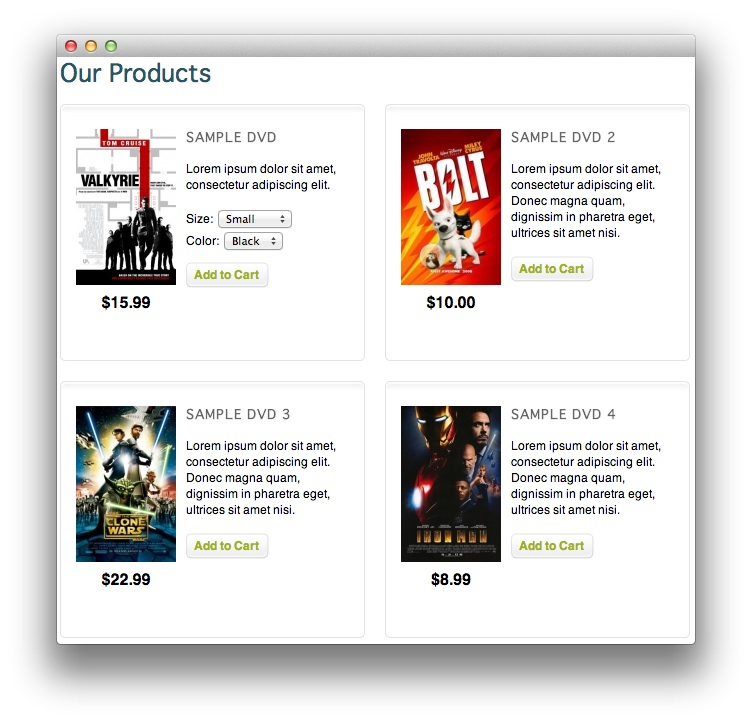
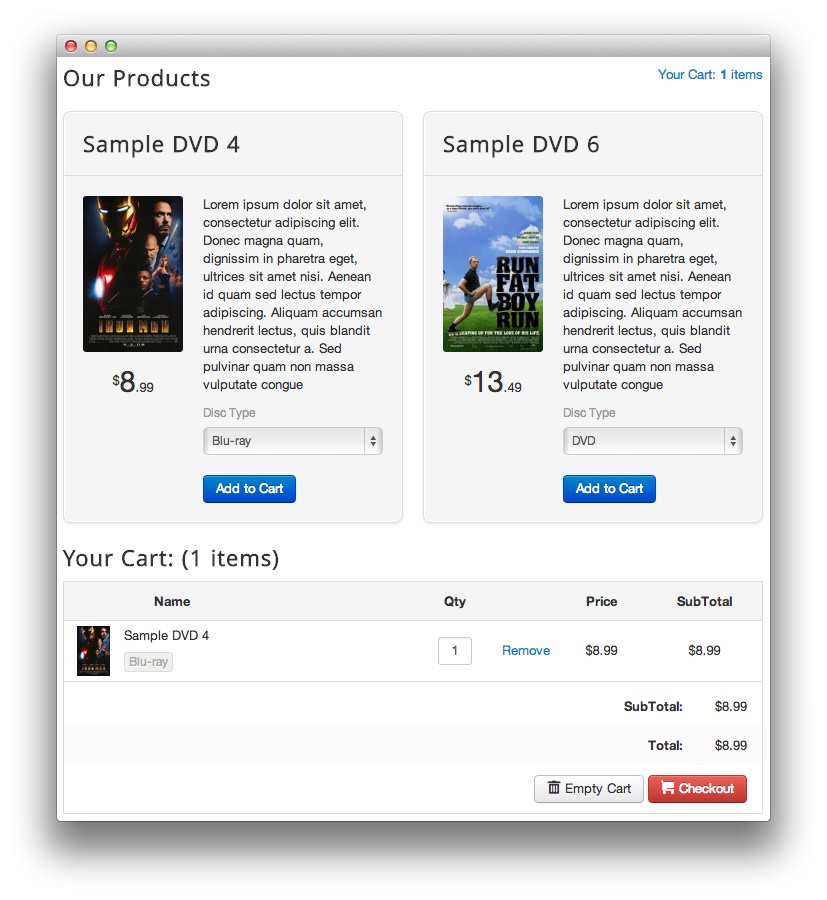
RokQuickCart Update (Joomla)

Changed region(s): [[0.0612, 0.0304, 0.9481, 0.9737], [0.5199, 0.1521, 0.887, 0.8216], [0.4282, 0.4564, 0.4588, 0.5173]]

diff --git a/Docs/joomla/extensions/rokquickcart/setup.md b/Docs/joomla/extensions/rokquickcart/setup.md
@@ -8,7 +8,7 @@ breadcrumb: /joomla:Joomla/!extensions:Extensions/rokquickcart:RokQuickCart
 Introduction
 -----
 
-RokQuickCart is a very simple Joomla extension that is designed to make it easy to add a cart to your site. As with any e-commerce tool, there are some important considerations to make prior to taking this component live. We have added the ability to set RokQuickCart up in a sandbox mode so you can test it prior to having transactions appear on your Google or PayPal account. We have also explained some of the important taxing and shipping considerations below.
+RokQuickCart is a very simple Joomla extension, which works with [SimpleCart][simplecart], that is designed to make it easy to add a cart to your site. As with any e-commerce tool, there are some important considerations to make prior to taking this component live. We have added the ability to set RokQuickCart up in a sandbox mode so you can test it prior to having transactions appear on your Google or PayPal account. We have also explained some of the important taxing and shipping considerations below.
 
 There are two primary areas of interest when setting up the RokQuickCart component. The first area is the **RokQuickCart Configuration** page which is accessible by navigating to **Admin -> System -> Global Configuration -> RokQuickCart**. You can also visit it by selecting **Options** within the **RokQuickCart Items Manager** which is directly accessible by navigating to **Admin -> Components -> RokQuickCart**. These two pages give you the ability to configure your store on the backend.
 
@@ -19,7 +19,7 @@ RokQuickCart also provides a great deal of configuration options on the backend 
 Checkout Methods
 -----
 
-RokQuickCart supports both PayPal and Google Checkout as checkout methods.
+RokQuickCart supports PayPal, Google Checkout, Amazon, and custom SendForms as checkout methods.
 
 ### PayPal
 If you wish to use PayPal as a checkout provider you must set up a business PayPal account (at http://www.paypal.com) and provide that business PayPal email to RokQuickCart.
@@ -34,6 +34,7 @@ Shipping amounts with PayPal are totaled by the cart and passed to PayPal as a l
 
 Per Item Shipping: Shipping cost is based on the shipping cost per item. If you use a different method, make sure each cart items shipping amount is set to 0.
 Flat Rate: One set shipping price for the whole order.
+
 Quantity Rate: Shipping cost per item no matter what item it is.
 Percentage of Total: Shipping cost is calculated as a percent of total sales.
 The Shipping will be added as a line item
@@ -48,6 +49,14 @@ At this point, RokQuickCart uses the Google Checkout HTML API. So be sure to tur
 
 Taxes and Shipping for Google Checkout are handled in the Google Checkout Setup. It is based on your location and the location of the purchaser. You can customize your tax rates and shipping based on multiple rules that you define. Therefore only the tax rate is passed to Google Checkout from RokQuickCart. Google Checkout will only add the taxes and shipping in if you define it to do so in the setup.
 
+>> NOTE: Google Checkout has been retired by Google and may no longer be available.
+
+### Amazon Payments Checkout
+
+Amazon Payments is one of the dealing platforms by which e-commerce sites are accepting payments. Money received through Amazon Payments Checkout is held by Amazon until confirmation of shipment occurs. This method allows the customers that already have an account with Amazon to use it to make their purchase without having to give their information to another third-party.
+
+You can set up an account with [Amazon Payments][amazonpayments] through its official website.
+
 Checkout Modes
 -----
 
@@ -57,13 +66,9 @@ RokQuickCart provides both Production and Sandbox modes to allow you to easily t
 
 Sandbox mode allows you to test the cart against the PayPal and Google Checkout Sandboxes. Using the sandbox, you can test the carts against the checkout provider and make sure they are working for your needs. When in sandbox mode no real orders will be taken, and no real charges will be applied.
 
-#### PayPal Sandbox
+You can create accounts for [the PayPal sandbox][paypalsandbox]. Please see the [PayPal developers information][info] on how to setup and use the paypal sandbox. You can also see the page on working with [Google Checkout on a Development Site][googledev] in order to get more information on using the Google Checkout Sandbox.
 
-You can create accounts for [the PayPal sandbox][paypalsandbox]. Please see the [PayPal developers information][info] on how to setup and use the paypal sandbox.
-
-#### Google Checkout Sandbox
-
-You can [create a Google Checkout Sandbox account][googlesandbox] by signing up. Please see the page on working with [Google Checkout on a Development Site][googledev] in order to get more information on using the Google Checkout Sandbox.
+Amazon also has a [useful guide][amazonsandbox] outlining its sandbox protocol.
 
 ### Production Mode
 
@@ -106,11 +111,11 @@ The **Items Manager** is the primary hub for creating and modifying products tha
 
 ![][setup3]
 
-:	1. **Name** This is the name of your product that will be displayed on the products page. [14%, 31%, se]
-	2. **Price** This price (in the currency you have selected on the main configuration page) is for the product itself and does not include shipping. [19%, 31%, se]
-	3. **Shipping Cost** This is where you can add the shipping costs for the product that sit apart from the main product price. [25%, 31%, se]
-	4. **Select an Image** You can upload a full-size image of your product here. RokQuickCart will automatically create smaller image sizes for your site. [30%, 31%, se]
-	5. **Description** This is the description you wish to have appear with the product on your site. [55%, 31%, se]
+:	1. **Name** This is the name of your product that will be displayed on the products page. [19%, 28%, se]
+	2. **Price** This price (in the currency you have selected on the main configuration page) is for the product itself and does not include shipping. [24%, 28%, se]
+	3. **Shipping Cost** This is where you can add the shipping costs for the product that sit apart from the main product price. [30%, 28%, se]
+	4. **Select an Image** You can upload a full-size image of your product here. RokQuickCart will automatically create smaller image sizes for your site. [35%, 28%, se]
+	5. **Description** This is the description you wish to have appear with the product on your site. [60%, 28%, se]
 
 1. **Name**: This is the name of your product that will be displayed on the products page.
 
@@ -120,7 +125,7 @@ The **Items Manager** is the primary hub for creating and modifying products tha
 
 4. **Select an Image**: You can upload a full-size image of your product here. RokQuickCart will automatically create smaller image sizes for your site
 
-5. **Description**: This is the description you wish to have appear with the product on your site.
+5. **Description**: This is the description you wish to have appear with the product on your site. The editor is based on RocketTheme's powerful RokPad extension, allowing you much more control over how content appears on your site.
 
 ![][setup4]
 
@@ -133,99 +138,113 @@ The **Items Manager** is the primary hub for creating and modifying products tha
 
 ![][setup5]
 
-:	1. **Show Sizes** This toggle will enable you to add different sizes to the product. This allows you to list different clothing sizes without creating a new product for every size. [31%, 46%, se]
-	2. **Sizes** Click this button to add sizes to the product listing. [44%, 46%, se]
-	3. **Show Colors** This toggle will enable you to add different colors to the product listing. When selling products that come in a variety of colors (such as shirts) it will save you from having to build individual products. [57%, 46%, se]
-	4. **Colors** Click this button to add colors to the product listing. [70%, 46%, se]
+:	1. **Add New** This button makes it easy to add variables to your products. If you have a product with varying details, you can add them here to avoid having to create a new item for each option. [28%, 69%, se]
+	2. **Add and Remove** You can use the + and - buttons to add and remove options for users. These options appear as a drop-down on the frontend giving customers the ability to select these options prior to purchase. [57%, 40%, se]
 
-1. **Show Sizes**: This toggle will enable you to add different sizes to the product. This allows you to list different clothing sizes without creating a new product for every size.
+1. **Add New**: This button makes it easy to add variables to your products. If you have a product with varying details, you can add them here to avoid having to create a new item for each option.
 
-2. **Sizes**: Click this button to add sizes to the product listing.
+2. **Add and Remove**: You can use the + and - buttons to add and remove options for users. These options appear as a drop-down on the frontend giving customers the ability to select these options prior to purchase.
 
-3. **Show Colors**: This toggle will enable you to add different colors to the product listing. When selling products that come in a variety of colors (such as shirts) it will save you from having to build individual products.
-
-4. **Colors**: Click this button to add colors to the product listing.
-
-Configuration
+Setup and Configuration
 -----
 
 The main **RokQuickCart Configuration** page can be accessed by navigating to **Admin -> System -> Global Configuration -> RokQuickCart** or simply selecting **Options** in the **RokQuickCart Items Manager**. It serves as the primary configuration page to determine how RokQuickCart appears and functions.
 
-![][setup6]
+![][config1]
 
-:	1. **Cart Page Title** This is the title for the primary cart page that appears on the frontend of your site. [20%, 46%, se]
-	2. **Page Columns** This option sets the number of product columns that will appear on the page. [27%, 46%, se]
-	3. **Shelf Item Width** The width of the shelf in pixels. This number should fit your content layout. [34%, 46%, se]
-	4. **Shelf Image Width** The width (in pixels) of the product image that appears on the shelf. [40%, 46%, se]
-	5. **Cart Item Height** The height (in pixels) of items that appear in the Cart. [46%, 46%, se]
-	6. **Cart Image Width** The width (in pixels) of the product image that appears in the Cart. [52%, 46%, se]
-	7. **Use RokBox for Full Image** Toggles the ability of the visitor to pull up a full-size copy of the product image for closer inspection. [60%, 46%, se]
-	8. **Include Default CSS** Shows the default cart CSS. Set to **No** if you want to override the default template CSS with your own. [70%, 46%, se]
-	9. **Use Tax Rate** Toggles whether or not you wish to use the tax rate when determining the final cost of the cart. [83%, 46%, se]
+:	1. **Cart Page Title** This is the title for the primary cart page that appears on the frontend of your site. [35%, 46%, se]
+	2. **Shelves Per Row** This is the amount of shelves you wish to have appear side-by-side in each row on the frontend. [43%, 46%, se]
+	3. **Max Image Width** This is the number of pixels in width images will max out at in your cart display. [51%, 46%, se]
+	4. **Use RokBox for Full Image** Toggles the ability of the visitor to pull up a full-size copy of the product image for closer inspection. [60%, 46%, se]
+	5. **Include Default CSS** Shows the default cart CSS. Set to **No** if you want to override the default template CSS with your own. [70%, 46%, se]
+	6. **Same Height Shelves** Enables you to set whether or not you want the height product shelves to appear at the same height (based on the tallest one). [79%, 46%, se]
+
 
 1. **Cart Page Title**: This is the title for the primary cart page that appears on the frontend of your site.
 
-2. **Page Columns**: This option sets the number of product columns that will appear on the page.
+2. **Shelves Per Row**: This is the amount of shelves you wish to have appear side-by-side in each row on the frontend.
 
-3. **Shelf Item Width**: The width of the shelf in pixels. This number should fit your content layout.
+3. **Max Image Width**: This is the number of pixels in width images will max out at in your cart display.
 
-4. **Shelf Image Width**: The width (in pixels) of the product image that appears on the shelf.
+4. **Use RokBox for Full Image**: Toggles the ability of the visitor to pull up a full-size copy of the product image for closer inspection.
 
-5. **Cart Item Height**: The height (in pixels) of items that appear in the Cart.
+5. **Include Default CSS** Shows the default cart CSS. Set to **No** if you want to override the default template CSS with your own.
 
-6. **Cart Image Width**: The width (in pixels) of the product image that appears in the Cart.
+6. **Same Height Shelves** Enables you to set whether or not you want the height product shelves to appear at the same height (based on the tallest one).
 
-7. **Use RokBox for Full Image**: Toggles the ability of the visitor to pull up a full-size copy of the product image for closer inspection.
+![][config2]
 
-8. **Include Default CSS**: Shows the default cart CSS. Set to **No** if you want to override the default template CSS with your own.
+:	1. **Use Tax Rate** Toggles whether or not you wish to use the tax rate when determining the final cost of the cart. [36%, 46%, se]
+	2. **Tax Rate** **Tax Rate** The tax rate to use. This is based on a single unit of currency (1.00). For a 10% tax rate, you will enter 0.10. [50%, 46%, se]
+	3. **Apply Tax to Shipping** Enables you to apply tax to the shipping total. [66%, 46%, se]
 
-9. **Use Tax Rate**: Toggles whether or not you wish to use the tax rate when determining the final cost of the cart.
+1. **Use Tax Rate**: Toggles whether or not you wish to use the tax rate when determining the final cost of the cart.
 
-![][setup7]
+2. **Tax Rate**: The tax rate to use. This is based on a single unit of currency (1.00). For a 10% tax rate, you will enter 0.10.
 
-:	1. **Tax Rate** The tax rate to use. This is based on a single unit of currency (1.00). For a 10% tax rate, you will enter 0.10. [9%, 44%, se]
-	2. **Checkout Mode** This option toggles between the Production and Sandbox checkout modes (see above). [18%, 44%, se]
-	3. **Checkout Method** Toggles between PayPal and Google Checkout as your primary checkout service. [26%, 44%, se]
-	4. **PayPal E-mail** This is the email account associated with your PayPal account. Payments made will go through this account. [37%, 44%, se]
-	5. **PayPal Currency** Select the currency your products are priced with. This is likely the dominant currency in your region. [43%, 44%, se]
-	6. **Add Shipping** Toggles the addition of shipping costs to the total cart cost. Select **No** for free shipping. [49%, 44%, se]
-	7. **Shipping Cost Calculation Method** This toggles the method by which shipping costs are calculated. You can choose between Flat Rate, Quantity Rate, Percentage of Total, and Per-Item Shipping. [56%, 49%, se]
-	8. **Flat Rate Amount** If a Flat Rate shipping cost method is used, this is the flat rate for shipping that will be added to order totals. [62%, 44%, se]
-	9. **Quantity Rate Amount** If a Quantity Rate shipping cost is used, this is the per-item shipping cost that will be added to order totals. [67%, 44%, se]
-	10. **Percent Shipping** If the Percent Shipping cost is used, this will be the percentage of the cart total added to cover shipping. [73%, 44%, se]
-	11. **Google Checkout Merchant ID** This is the Merchant ID used for Google Checkout. [82%, 44%, se]
-	13. **Google Checkout Currency** This is the currency you wish to accept through Google Checkout. [87%, 44%, se]
+3. **Apply Tax to Shipping**: Enables you to apply tax to the shipping total.
 
-1. **Tax Rate**: The tax rate to use. This is based on a single unit of currency (1.00). For a 10% tax rate, you will enter 0.10
+![][config3]
 
-2. **Checkout Mode**: This option toggles between the Production and Sandbox checkout modes (see above).
+:	1. **Checkout Mode** This option toggles between the Production and Sandbox checkout modes (see above). [38%, 30%, se]
+	2. **Checkout Method** Toggles between PayPal, Google Checkout, Amazon Payments, and a Custom SendForm URL as your primary checkout service. [52%, 30%, se]
+	3. **Currency** Select the currency your products are priced with. This is likely the dominant currency in your region. [66%, 30%, se]
 
-3. **Checkout Method**: Toggles between PayPal and Google Checkout as your primary checkout service.
+1. **Checkout Mode**: This option toggles between the Production and Sandbox checkout modes (see above).
 
-4. **PayPal E-mail**: This is the email account associated with your PayPal account. Payments made will go through this account.
+2. **Checkout Method**: Toggles between PayPal, Google Checkout, Amazon Payments, and a Custom SendForm URL as your primary checkout service.
 
-5. **PayPal Currency**: Select the currency your products are priced with. This is likely the dominant currency in your region.
+3. **Currency**: Select the currency your products are priced with. This is likely the dominant currency in your region.
 
-6. **Add Shipping**: Toggles the addition of shipping costs to the total cart cost. Select **No** for free shipping.
+![][config4]
 
-7. **Shipping Cost Calculation Method**: This toggles the method by which shipping costs are calculated. You can choose between Flat Rate, Quantity Rate, Percentage of Total, and Per-Item Shipping.
+:	1. **Add Shipping** Toggles the addition of shipping costs to the total cart cost. Select **No** for free shipping. [29%, 44%, se]
+	2. **Shipping Cost Calculation Method** This toggles the method by which shipping costs are calculated. You can choose between Flat Rate, Quantity Rate, Percentage of Total, and Per-Item Shipping. [40%, 49%, se]
+	3. **Flat Rate Amount** If a Flat Rate shipping cost method is used, this is the flat rate for shipping that will be added to order totals. [50%, 44%, se]
+	4. **Quantity Rate Amount** If a Quantity Rate shipping cost is used, this is the per-item shipping cost that will be added to order totals. [62%, 44%, se]
+	5. **Percent Shipping** If the Percent Shipping cost is used, this will be the percentage of the cart total added to cover shipping. [73%, 44%, se]
 
-8. **Flat Rate Amount**: If a Flat Rate shipping cost method is used, this is the flat rate for shipping that will be added to order totals.
+1. **Add Shipping**: Toggles the addition of shipping costs to the total cart cost. Select **No** for free shipping.
 
-9. **Quantity Rate Amount**: If a Quantity Rate shipping cost is used, this is the per-item shipping cost that will be added to order totals.
+2. **Shipping Cost Calculation Method**: This toggles the method by which shipping costs are calculated. You can choose between Flat Rate, Quantity Rate, Percentage of Total, and Per-Item Shipping.
 
-10. **Percent Shipping**: If the Percent Shipping cost is used, this will be the percentage of the cart total added to cover shipping.
+3. **Flat Rate Amount**: If a Flat Rate shipping cost method is used, this is the flat rate for shipping that will be added to order totals.
 
-11. **Google Checkout Merchant ID**: This is the Merchant ID used for Google Checkout.
+4. **Quantity Rate Amount**: If a Quantity Rate shipping cost is used, this is the per-item shipping cost that will be added to order totals.
 
-13. **Google Checkout Currency**: This is the currency you wish to accept through Google Checkout.
+5. **Percent Shipping**: If the Percent Shipping cost is used, this will be the percentage of the cart total added to cover shipping.
 
+![][config5]
+
+:	1. **PayPal E-mail** This is the email account associated with your PayPal account. Payments made will go through this account. [15%, 36%, se]
+	2. **Google Checkout Merchant ID** This is the Merchant ID used for Google Checkout. [30%, 36%, se]
+	3. **Google Checkout Currency** This is the currency you wish to accept through Google Checkout. [36%, 36%, se]
+	4. **Merchant Signature** This is the merchant signature used for Amazon Payments Checkout. [59%, 36%, se]
+	5. **Merchant ID** Your Amazon Merchant ID. [65%, 36%, se]
+	6. **AWS Access Key ID** Your AWS Access Key ID used for Amazon Payments Checkout. [71%, 36%, se]
+	7. **Checkout URL** The URL leading to your Custom SendForm checkout. [86%, 36%, se]
+
+1. **PayPal E-mail**: This is the email account associated with your PayPal account. Payments made will go through this account.
+
+2. **Google Checkout Merchant ID**: This is the Merchant ID used for Google Checkout.
+
+3. **Google Checkout Currency**: This is the currency you wish to accept through Google Checkout.
+
+4. **Merchant Signature**: This is the merchant signature used for Amazon Payments Checkout.
+
+5. **Merchant ID**: Your Amazon Merchant ID.
+
+6. **AWS Access Key ID**: Your AWS Access Key ID used for Amazon Payments Checkout.
+
+7. **Checkout URL**: The URL leading to your Custom SendForm checkout.
 
 [checkout]: http://code.google.com/apis/checkout/developer/Google_Checkout_Shopping_Cart_Signing_Up.html
 [paypalsandbox]: https://developer.paypal.com/
 [info]: https://cms.paypal.com/us/cgi-bin/?cmd=_render-content&content_ID=developer/howto_testing_sandbox
 [googlesandbox]: http://sandbox.google.com/checkout/sell/signup
+[amazonsandbox]: https://payments.amazon.com/help/Checkout-by-Amazon/Using-the-Checkout-by-Amazon-Sandbox/Overview-of-the-Sandbox
 [googledev]: http://code.google.com/apis/checkout/developer/Google_Checkout_Basic_HTML_Sandbox.html
+[simplecart]: http://simplecartjs.org/
 [setup1]: assets/setup_1.jpeg
 [setup2]: assets/setup_2.jpeg
 [setup3]: assets/setup_3.jpeg
@@ -234,3 +253,9 @@ The main **RokQuickCart Configuration** page can be accessed by navigating to **
 [setup6]: assets/setup_6.jpeg
 [setup7]: assets/setup_7.jpeg
 [setup2]: assets/setup_2.jpeg
+[config1]: assets/config_1.jpeg
+[config2]: assets/config_2.jpeg
+[config3]: assets/config_3.jpeg
+[config4]: assets/config_4.jpeg
+[config5]: assets/config_5.jpeg
+[amazonpayments]: https://payments.amazon.com/business/html-button?ld=NSCBAGooglePA

diff --git a/Docs/joomla/extensions/rokquickcart/INDEX.md b/Docs/joomla/extensions/rokquickcart/INDEX.md
@@ -12,7 +12,9 @@ Introduction
 
 RokQuickCart is a simple shopping cart for Joomla. It takes a simple, yet elegant, shopping cart script and integrates directly into Joomla. It allows you to showcase products, inclusive of images, descriptions and additional options, and purchase these items, with support for shipping and tax calculation.
 
-The extension uses **PayPal** and **Google Checkout** as its payment systems, and comes with a built-in theme.
+This extension enables you to rapidly set up and deploy a powerful e-commerce system for your Joomla site that accepts payments from **Amazon**, **PayPal**, **Google Checkout**, or a custom SendForm option.
+
+>> NOTE: Google Checkout has been retired by Google and may not be available. Support is maintained to be in-line with [SimpleCart][simplecart]'s current list of supported platforms.
 
 Requirements
 ------------
@@ -25,12 +27,13 @@ Requirements
 Key Features
 -----
 
-* **Payment Systems**: use PayPal or Google Checkout
+* **Payment Systems**: use PayPal, Amazon, Google Checkout, or a custom SendForm checkout
 * **Currencies**: use up to 16 different currencies for your store
 * **Tax Rate**: automatic cost calculation based on a tax rate
 * **Shipping**: configure shipping costs for auto-calculation
 * **RokBox**: product images use RokBox to display larger previews
 * **Style**: built-in styling for rapid deployment
+* **Based on SimpleCart**: based on the powerful SimpleCart platform to make it easy and simple to use
 
 How to install
 --------------
@@ -65,3 +68,4 @@ You can find more information about menu management in Joomla [in our guide][gui
 [install]: ../../platform/extensions.md#how-to-install-an-extension
 [extension]: assets/rokquickcart.jpg
 [guide]: ../../basic/menu_manager.md
+[simplecart]: http://simplecartjs.org/

diff --git a/Docs/joomla/extensions/rokquickcart/TOC.md b/Docs/joomla/extensions/rokquickcart/TOC.md
@@ -19,4 +19,4 @@ support: http://www.rockettheme.com/forum/joomla-extension-rokquickcart/
     	* [Checkout Modes](setup.md#checkout-modes)
     	* [Items Manager](setup.md#items-manager)
     	* [Item Editor](setup.md#item-editor)
-    	* [Configuration](setup.md#configuration)
+    	* [Setup and Configuration](setup.md#setup-and-configuration)
